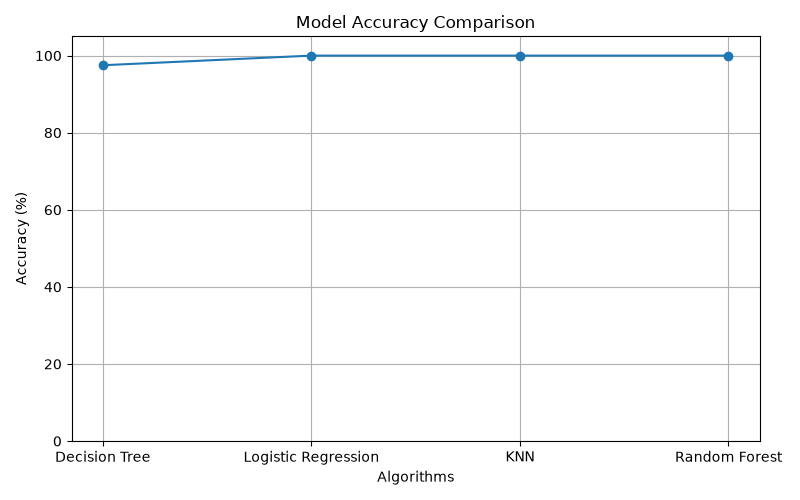
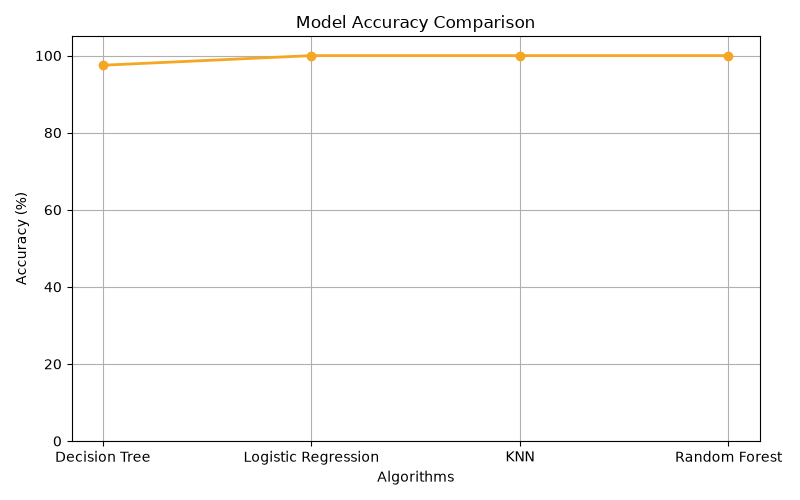
Performance Charts Added

Changed region(s): [[0.125, 0.09, 0.9375, 0.15]]

diff --git a/app.py b/app.py
@@ -294,9 +294,53 @@ elif page == "📈 Evaluation":
         st.warning("Classification report not found.")
 
 # ---------------------------------------------------------
-# VISUALIZATION PAGE (Step 29 Placeholder)
+# VISUALIZATION PAGE (Step 29 - Visualization Dashboard)
 # ---------------------------------------------------------
 elif page == "📉 Visualization":
+
     st.title("📉 Visualization Dashboard")
     st.markdown("---")
-    st.info("Placeholder for Step 29: Displaying charts and analytical performance metrics.")
+
+    # Create tabs for better organization
+    tab1, tab2 = st.columns(2)
+    
+    st.subheader("📊 Model Performance Comparison")
+    
+    # Path to the accuracy comparison graph saved in Phase 6 (Step 23)
+    accuracy_graph_path = "output/accuracy_graph.png"
+    
+    if os.path.exists(accuracy_graph_path):
+        st.image(accuracy_graph_path, caption="Algorithm Accuracy Comparison", use_container_width=True)
+    else:
+        st.warning("⚠️ Accuracy comparison graph not found in `output/accuracy_graph.png`. Please run charts.py first.")
+
+    st.markdown("---")
+    st.subheader("💡 Dataset Insights & Distributions")
+
+    # Dynamic generation or loading of distribution plots
+    # If your graphs.py / plots.py saves them, load them here:
+    col1, col2 = st.columns(2)
+    
+    with col1:
+        st.markdown("### Study Hours vs Final Marks")
+        # Placeholder example for rendering standard dataset insights if available
+        try:
+            dataset = pd.read_csv("dataset/student_data.csv")
+            import matplotlib.pyplot as plt
+            import seaborn as sns
+            
+            fig, ax = plt.subplots()
+            sns.scatterplot(data=dataset, x="Study_Hours", y="Final", hue="Performance", ax=ax)
+            st.pyplot(fig)
+        except Exception as e:
+            st.info("Load student_data.csv to display real-time scatter charts.")
+
+    with col2:
+        st.markdown("### Performance Class Distribution")
+        try:
+            fig, ax = plt.subplots()
+            dataset["Performance"].value_counts().plot(kind="pie", autopct="%1.1f%%", ax=ax, startangle=90)
+            ax.set_ylabel("")
+            st.pyplot(fig)
+        except Exception as e:
+            st.info("Load student_data.csv to display real-time pie charts.")

diff --git a/visualization/charts.py b/visualization/charts.py
@@ -18,11 +18,11 @@ def generate_performance_charts(accuracies):
     scores = [accuracy * 100 for accuracy in accuracies.values()]
 
     # ==========================
-    # Bar Chart
+    # Bar Chart (Fixed name to match app.py)
     # ==========================
 
     plt.figure(figsize=(8, 5))
-    plt.bar(models, scores)
+    plt.bar(models, scores, color=['#4AF2A1', '#4A90E2', '#50E3C2', '#B8E986'])
 
     plt.title("Model Accuracy Comparison")
     plt.xlabel("Algorithms")
@@ -33,18 +33,19 @@ def generate_performance_charts(accuracies):
         plt.text(i, value + 1, f"{value:.2f}%", ha="center")
 
     plt.tight_layout()
-    plt.savefig("output/model_accuracy_bar_chart.png")
+    # CHANGED: Saved as accuracy_graph.png to match your app.py path exactly
+    plt.savefig("output/accuracy_graph.png")
     plt.close()
 
     print("Bar Chart saved successfully.")
-    print("Location: output/model_accuracy_bar_chart.png")
+    print("Location: output/accuracy_graph.png")
 
     # ==========================
     # Line Chart
     # ==========================
 
     plt.figure(figsize=(8, 5))
-    plt.plot(models, scores, marker="o")
+    plt.plot(models, scores, marker="o", color="#F5A623", linewidth=2)
 
     plt.title("Model Accuracy Comparison")
     plt.xlabel("Algorithms")
@@ -58,3 +59,17 @@ def generate_performance_charts(accuracies):
 
     print("\nLine Chart saved successfully.")
     print("Location: output/model_accuracy_line_chart.png")
+
+
+# =====================================================
+# Standalone Execution block for manual terminal running
+# =====================================================
+if __name__ == "__main__":
+    # Test dictionary using the accuracy data from your evaluation setup
+    sample_accuracies = {
+        "Decision Tree": 0.9750,
+        "Logistic Regression": 1.0000,
+        "KNN": 1.0000,
+        "Random Forest": 1.0000
+    }
+    generate_performance_charts(sample_accuracies)